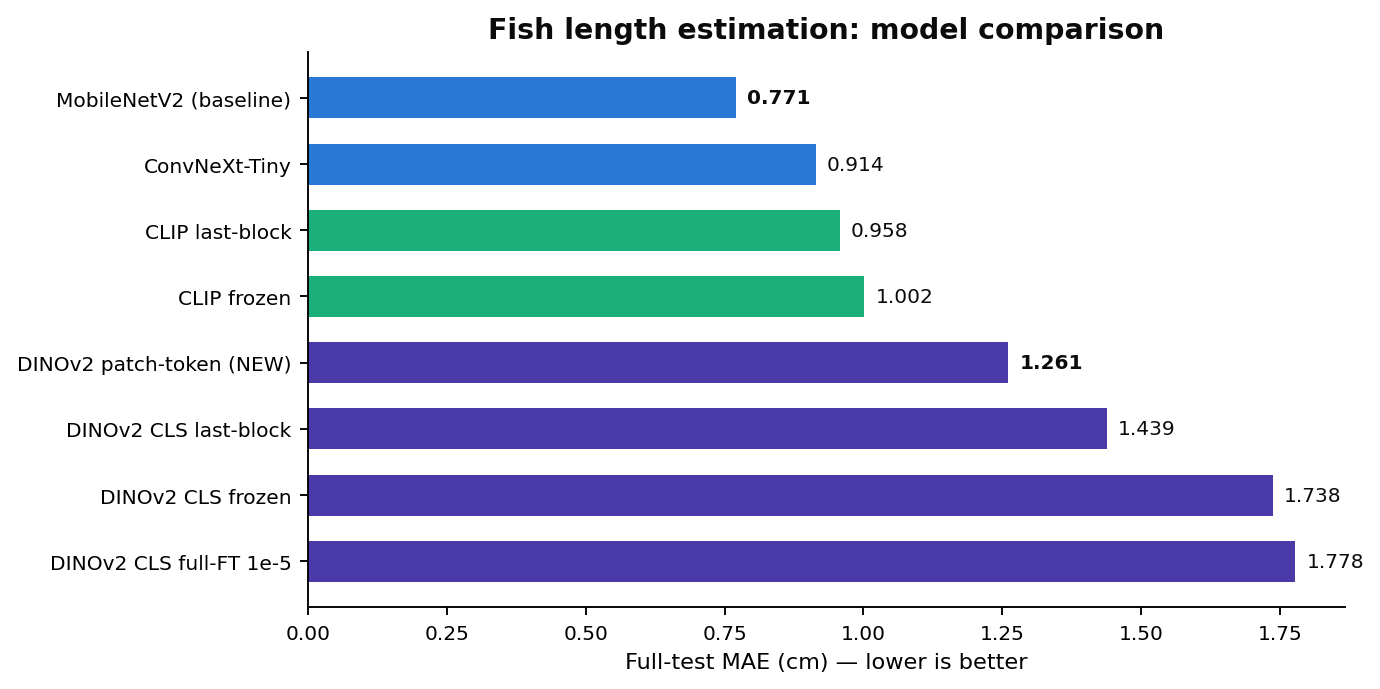
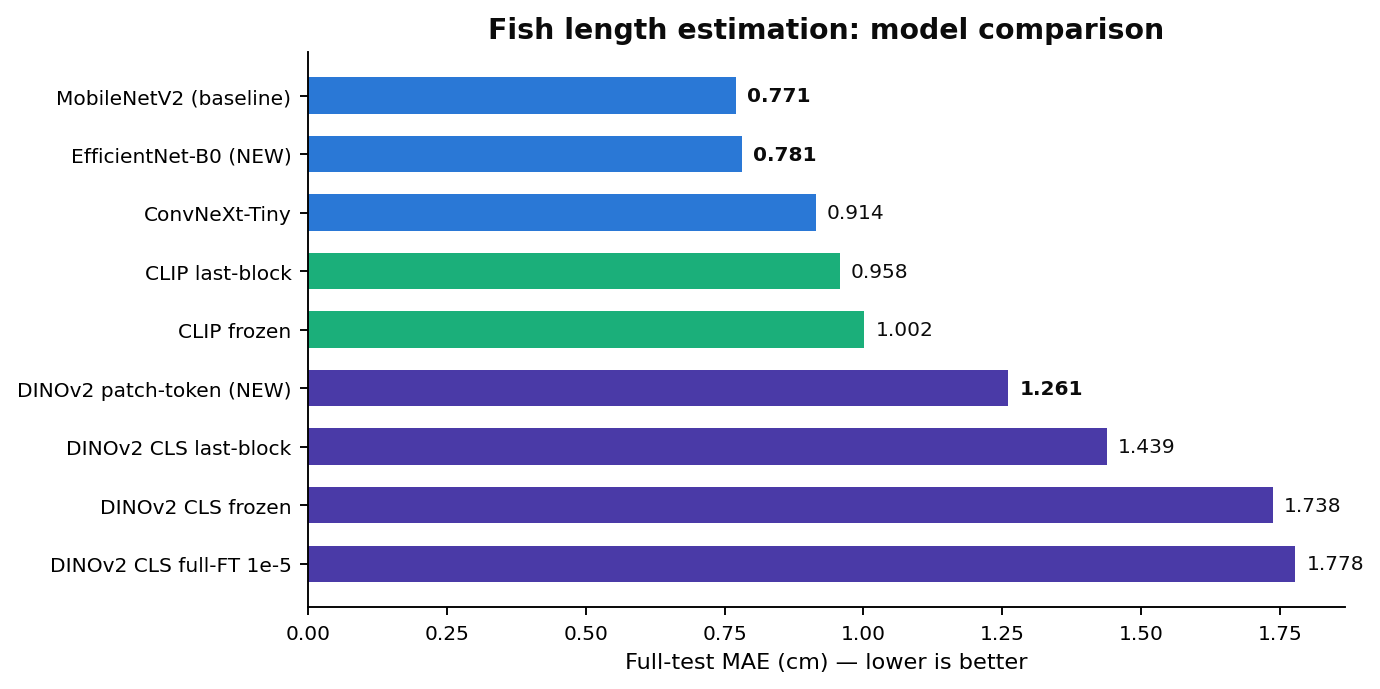
Remove ensemble entirely from project: delete ensemble scripts/results, strip all mentions from docs, HTML explainer, and reports (single-model comparison only)

diff --git a/AREA_SEMINAR_FULL_REPORT.md b/AREA_SEMINAR_FULL_REPORT.md
@@ -326,6 +326,7 @@ This makes the comparison scientifically cleaner.
 | Q2 VFM | DINOv2 ViT-S/14 fine-tuned, encoder LR 1e-5 | Not reported | Not reported | 1.636 cm | 1.919 cm | 1.778 cm | Complete |
 | Q2 VFM | DINOv2 ViT-S/14 fine-tuned, encoder LR 1e-6 | Not reported | Not reported | 2.075 cm | 2.189 cm | 2.132 cm | Complete |
 | Q2 VFM | DINOv2 ViT-S/14 frozen head then last block | Not reported | Not reported | 1.340 cm | 1.537 cm | 1.439 cm | Complete |
+| Q2 VFM | DINOv2 ViT-S/14 frozen patch-token pooling | Not reported | Not reported | 1.107 cm | 1.290 cm | 1.199 cm | Complete |
 | Q2 VFM | CLIP ViT-B/32 frozen encoder + regression head | Not reported | Not reported | 0.898 cm | 1.106 cm | 1.002 cm | Complete |
 | Q2 VFM | CLIP ViT-B/32 frozen head then last visual block | Not reported | Not reported | 0.842 cm | 1.074 cm | 0.958 cm | Complete |
 | Q2 VFM | ConvNeXt-Tiny ImageNet encoder | Not reported | Not reported | 0.814 cm | 1.014 cm | 0.914 cm | Complete |
@@ -511,7 +512,6 @@ Good next steps:
 | Stronger regression head | The encoder may be good but the head may be too simple |
 | Error analysis | Identify where models fail: species, length ranges, occlusion |
 | Crop/bbox ablation | Test how much bbox and masks contribute |
-| Ensemble or prediction averaging | May reduce regression error |
 | Multi-seed final table | More defensible seminar/report result |
 
 Recommended immediate next experiment:
